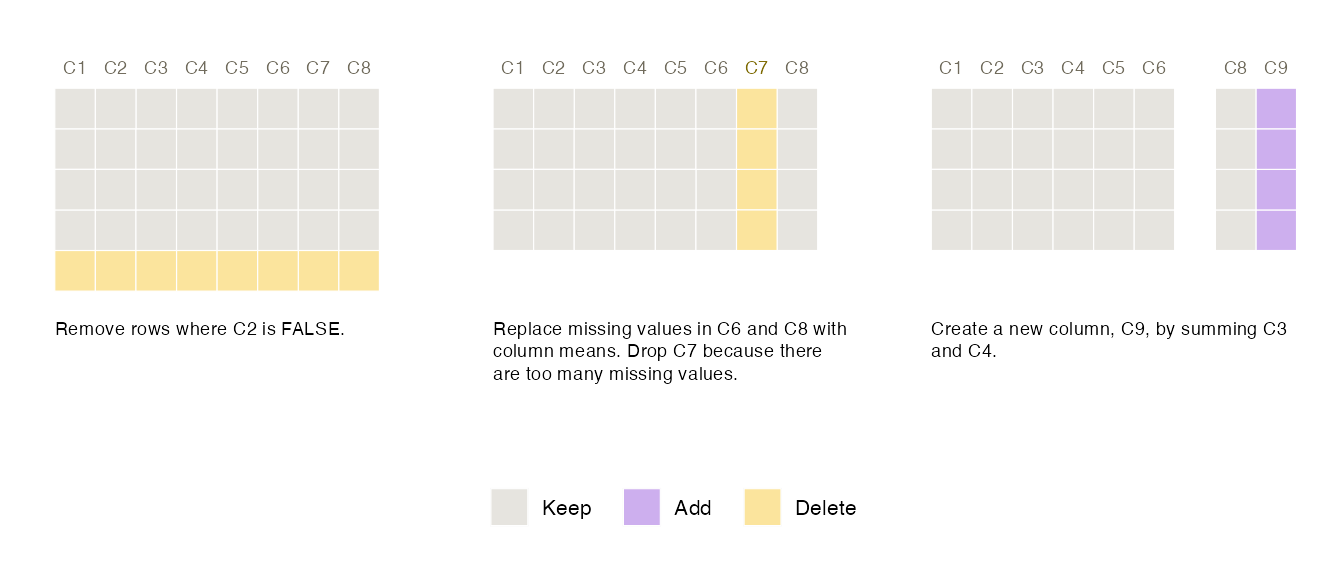
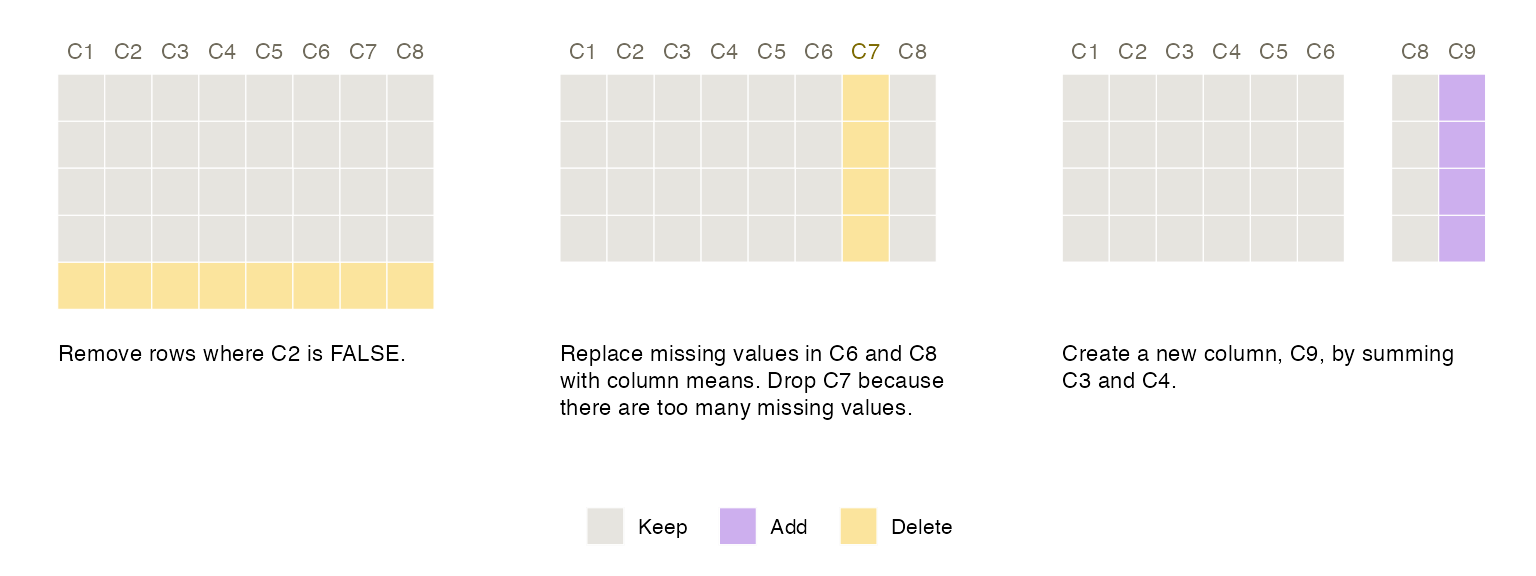
fix custom colour import

diff --git a/docs/articles/smallsets.html b/docs/articles/smallsets.html
@@ -129,7 +129,7 @@ figure will appear in the plots pane.</p>
 <span></span>
 <span><span class="fu"><a href="../reference/Smallset_Timeline.html">Smallset_Timeline</a></span><span class="op">(</span>data <span class="op">=</span> <span class="va">s_data</span>, </span>
 <span>                  code <span class="op">=</span> <span class="fu"><a href="https://rdrr.io/r/base/system.file.html" class="external-link">system.file</a></span><span class="op">(</span><span class="st">"s_data_preprocess.R"</span>, package <span class="op">=</span> <span class="st">"smallsets"</span><span class="op">)</span><span class="op">)</span></span></code></pre></div>
-<p><img src="smallsets_files/figure-html/timeline1-1.png" width="672" style="display: block; margin: auto;"></p>
+<p><img src="smallsets_files/figure-html/timeline1-1.png" width="768" style="display: block; margin: auto;"></p>
 <p><strong>Normally, you pass a character string to <code>code</code>
 (e.g., “my_code.R” or “/…/…/my_code.R”).</strong> However, the script
 s_data_preprocess.R is included in smallsets as an example and needs to
@@ -409,7 +409,7 @@ run of <code>Smallset_Timeline</code>.</p>
 <code class="sourceCode R"><span><span class="fu"><a href="../reference/Smallset_Timeline.html">Smallset_Timeline</a></span><span class="op">(</span>data <span class="op">=</span> <span class="va">s_data</span>, </span>
 <span>                  code <span class="op">=</span> <span class="fu"><a href="https://rdrr.io/r/base/system.file.html" class="external-link">system.file</a></span><span class="op">(</span><span class="st">"s_data_preprocess.R"</span>, package <span class="op">=</span> <span class="st">"smallsets"</span><span class="op">)</span>, </span>
 <span>                  rowCount <span class="op">=</span> <span class="fl">5</span>, rowNums <span class="op">=</span> <span class="fu"><a href="https://rdrr.io/r/base/c.html" class="external-link">c</a></span><span class="op">(</span><span class="fl">27</span>, <span class="fl">42</span>, <span class="fl">95</span>, <span class="fl">96</span>, <span class="fl">99</span><span class="op">)</span><span class="op">)</span></span></code></pre></div>
-<p><img src="smallsets_files/figure-html/timeline3-1.png" width="672" style="display: block; margin: auto;"></p>
+<p><img src="smallsets_files/figure-html/timeline3-1.png" width="768" style="display: block; margin: auto;"></p>
 <p>Here, the <em>coverage</em> solution misses a data edit example in
 the second snapshot, motivating use of the other selection method
 (<code>rowSelect = 2</code>): the <em>coverage + variety</em>
@@ -423,7 +423,7 @@ this should be done with caution.</p>
 <span>                  code <span class="op">=</span> <span class="fu"><a href="https://rdrr.io/r/base/system.file.html" class="external-link">system.file</a></span><span class="op">(</span><span class="st">"s_data_preprocess.R"</span>, package <span class="op">=</span> <span class="st">"smallsets"</span><span class="op">)</span>, </span>
 <span>                  rowSelect <span class="op">=</span> <span class="fl">2</span>, rowReturn <span class="op">=</span> <span class="cn">T</span><span class="op">)</span></span></code></pre></div>
 <pre><code><span><span class="co">## Smallset rows: 3, 32, 80, 97, 99</span></span></code></pre>
-<p><img src="smallsets_files/figure-html/timeline4-1.png" width="672" style="display: block; margin: auto;"></p>
+<p><img src="smallsets_files/figure-html/timeline4-1.png" width="768" style="display: block; margin: auto;"></p>
 </div>
 <div class="section level2">
 <h2 id="customisation">Timeline customisation<a class="anchor" aria-label="anchor" href="#customisation"></a>
@@ -433,7 +433,8 @@ this section highlight some of them. See <code><a href="../reference/Smallset_Ti
 for a full list of options.</p>
 <p><strong>Example 1</strong></p>
 <p>Some differences: custom colour palette, data in the snapshots,
-highlighting missing data, a different font, and no ghost data.</p>
+highlighting missing data, a different font, no ghost data, and altered
+sizing, spacing, and labelling.</p>
 <div class="sourceCode" id="cb17"><pre class="downlit sourceCode r">
 <code class="sourceCode R"><span><span class="fu"><a href="https://rdrr.io/r/base/Random.html" class="external-link">set.seed</a></span><span class="op">(</span><span class="fl">145</span><span class="op">)</span></span>
 <span></span>
@@ -441,20 +442,21 @@ highlighting missing data, a different font, and no ghost data.</p>
 <span>  data <span class="op">=</span> <span class="va">s_data</span>,</span>
 <span>  code <span class="op">=</span> <span class="fu"><a href="https://rdrr.io/r/base/system.file.html" class="external-link">system.file</a></span><span class="op">(</span><span class="st">"s_data_preprocess.R"</span>, package <span class="op">=</span> <span class="st">"smallsets"</span><span class="op">)</span>,</span>
 <span>  colours <span class="op">=</span> <span class="fu"><a href="https://rdrr.io/r/base/list.html" class="external-link">list</a></span><span class="op">(</span></span>
-<span>    same <span class="op">=</span> <span class="st">"#E6E3DF"</span>,</span>
-<span>    edit <span class="op">=</span> <span class="st">"#FFC500"</span>,</span>
+<span>    keep <span class="op">=</span> <span class="st">"#E6E3DF"</span>,</span>
 <span>    add <span class="op">=</span> <span class="st">"#5BA2A6"</span>,</span>
-<span>    delete <span class="op">=</span> <span class="st">"#DDC492"</span></span>
+<span>    delete <span class="op">=</span> <span class="st">"#FF4040"</span>,</span>
+<span>    edit <span class="op">=</span> <span class="st">"#FFC500"</span></span>
 <span>  <span class="op">)</span>,</span>
 <span>  printedData <span class="op">=</span> <span class="cn">TRUE</span>,</span>
 <span>  truncateData <span class="op">=</span> <span class="fl">4</span>,</span>
 <span>  missingDataTints <span class="op">=</span> <span class="cn">TRUE</span>,</span>
 <span>  ghostData <span class="op">=</span> <span class="cn">FALSE</span>,</span>
 <span>  font <span class="op">=</span> <span class="st">"Palatino"</span>,</span>
-<span>  sizing <span class="op">=</span> <span class="fu"><a href="../reference/sets_sizing.html">sets_sizing</a></span><span class="op">(</span>data <span class="op">=</span> <span class="fl">1.5</span><span class="op">)</span>,</span>
-<span>  labelling <span class="op">=</span> <span class="fu"><a href="../reference/sets_labelling.html">sets_labelling</a></span><span class="op">(</span>labelCol <span class="op">=</span> <span class="st">"darker"</span>, labelColDif <span class="op">=</span> <span class="fl">1</span><span class="op">)</span></span>
+<span>  sizing <span class="op">=</span> <span class="fu"><a href="../reference/sets_sizing.html">sets_sizing</a></span><span class="op">(</span>data <span class="op">=</span> <span class="fl">2</span>, captions <span class="op">=</span> <span class="fl">3.5</span>, columns <span class="op">=</span> <span class="fl">3.5</span><span class="op">)</span>,</span>
+<span>  labelling <span class="op">=</span> <span class="fu"><a href="../reference/sets_labelling.html">sets_labelling</a></span><span class="op">(</span>labelCol <span class="op">=</span> <span class="st">"darker"</span>, labelColDif <span class="op">=</span> <span class="fl">1</span><span class="op">)</span>,</span>
+<span>  spacing <span class="op">=</span> <span class="fu"><a href="../reference/sets_spacing.html">sets_spacing</a></span><span class="op">(</span>captions <span class="op">=</span> <span class="fl">3</span><span class="op">)</span></span>
 <span><span class="op">)</span></span></code></pre></div>
-<p><img src="smallsets_files/figure-html/timeline5-1.png" width="672" style="display: block; margin: auto;"></p>
+<p><img src="smallsets_files/figure-html/timeline5-1.png" width="768" style="display: block; margin: auto;"></p>
 <p><strong>Example 2</strong></p>
 <p>Some differences: four snapshots, use of a built-in colour palette,
 split into two rows, and rotated column names.</p>

diff --git a/docs/reference/Smallset_Timeline.html b/docs/reference/Smallset_Timeline.html
@@ -129,8 +129,8 @@ preprocessing code.</p></dd>
 <dt>colours</dt>
 <dd><p>Either 1, 2, or 3 for one of the pre-built colour schemes (all
 are colour-blind-friendly and 3 is black/white-printer-friendly) or a list
-with four hex colour codes for same, edit, add, and delete (e.g., list(same
-= "#E6E3DF", edit = "#FFC500", add = "#5BA2A6", delete = "#DDC492")).</p></dd>
+with four hex colour codes for keep, edit, add, and delete (e.g., list(keep
+= "#E6E3DF", add = "#5BA2A6", delete = "#DDC492", edit = "#FFC500")).</p></dd>
 
 
 <dt>altText</dt>
